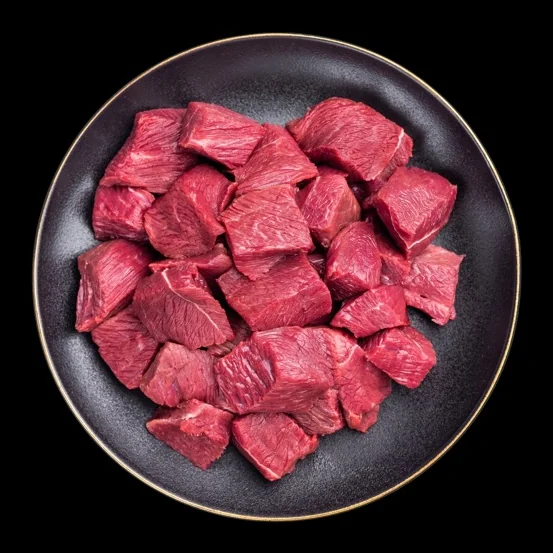
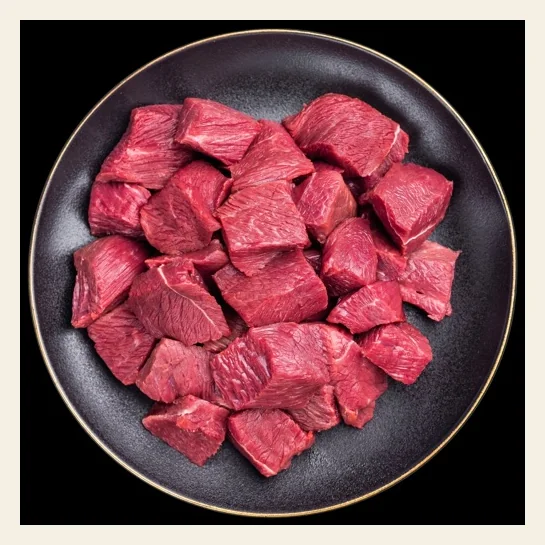
fix(product-img): 商品写真が「真っ白」だった問題を修正
【原因】
1. 私の Python 自動トリムが商品 JPG の黒枠を削除しクリーム余白に置換
2. shop.html の CSS は元の黒枠JPG 前提で background-blend-mode: screen
3. screen × cream = ほぼ無色 → 商品が見えなくなる

【修正】
1. WebP 再生成: 黒枠検出 → トリム → クリーム背景に中央配置 (8%余白)
2. shop.html: background-blend-mode / mix-blend-mode を完全除去
3. filter: contrast/saturate も削除 (元の発色を活かす)

【結果】
- ハンバーグ・ホルモン等の商品写真が clear に表示
- クリーム背景に統一感、editorial な見え方を維持
- WebP 23枚 (1200x1200 max, quality 85) で再生成

diff --git a/shop.html b/shop.html
@@ -235,14 +235,13 @@ h1, h2, h3, h4, h5, h6 { font-weight: 400; }
 .product-card-img.has-img { background: var(--color-paper); }
 .product-card-img.has-img img {
  width: 100%; height: 100%; object-fit: cover;
- mix-blend-mode: multiply;
  filter: contrast(1.05) saturate(1.05);
-}
+ }
 .restaurant-card-img.has-img, .journal-card-img.has-img { background: transparent; }
 .restaurant-card-img.has-img img, .journal-card-img.has-img img { width: 100%; height: 100%; object-fit: cover; }
 .product-card-img.has-img::after, .restaurant-card-img.has-img::after, .journal-card-img.has-img::after, .member-photo.has-img::after { display: none; }
 /* 背景画像方式 (data-label) も同様 */
-.product-card-img[style*="background-image"] { background-color: var(--color-paper); background-blend-mode: multiply; }
+.product-card-img[style*="background-image"] { background-color: var(--color-paper); }
 .product-card-img.has-img { background: transparent; }
 
 /* Gallery */
@@ -6359,9 +6358,7 @@ h1, h2, h3, h4, h5, h6 { font-weight: 400; }
 /* クリーム下地 + screen blend で黒背景写真を白っぽく持ち上げ (Tom design critique #8) */
 .product-card-img {
  background-color: var(--color-paper) !important;
- background-blend-mode: screen;
- filter: contrast(1.05) saturate(1.05);
-}
+ }
 .product-card-img[data-label="SIRLOIN"] { background-image: image-set(url('public/images/products/drive/sirloin.webp') type('image/webp'), url('public/images/products/drive/sirloin.jpg')); }
 .product-card-img[data-label="RED MEAT"] { background-image: image-set(url('public/images/products/drive/red-meat.webp') type('image/webp'), url('public/images/products/drive/red-meat.jpg')); }
 .product-card-img[data-label="MISUJI"] { background-image: image-set(url('public/images/products/drive/misuji.webp') type('image/webp'), url('public/images/products/drive/misuji.jpg')); }

diff --git a/product.html b/product.html
@@ -413,8 +413,7 @@ details[open] .pdp-detail-summary::after { content: '−'; }
 }
 .pdp-related-img img {
   width: 100%; height: 100%; object-fit: cover;
-  mix-blend-mode: multiply;
-}
+  }
 .pdp-related-body {
   padding: 20px 24px 28px;
 }
